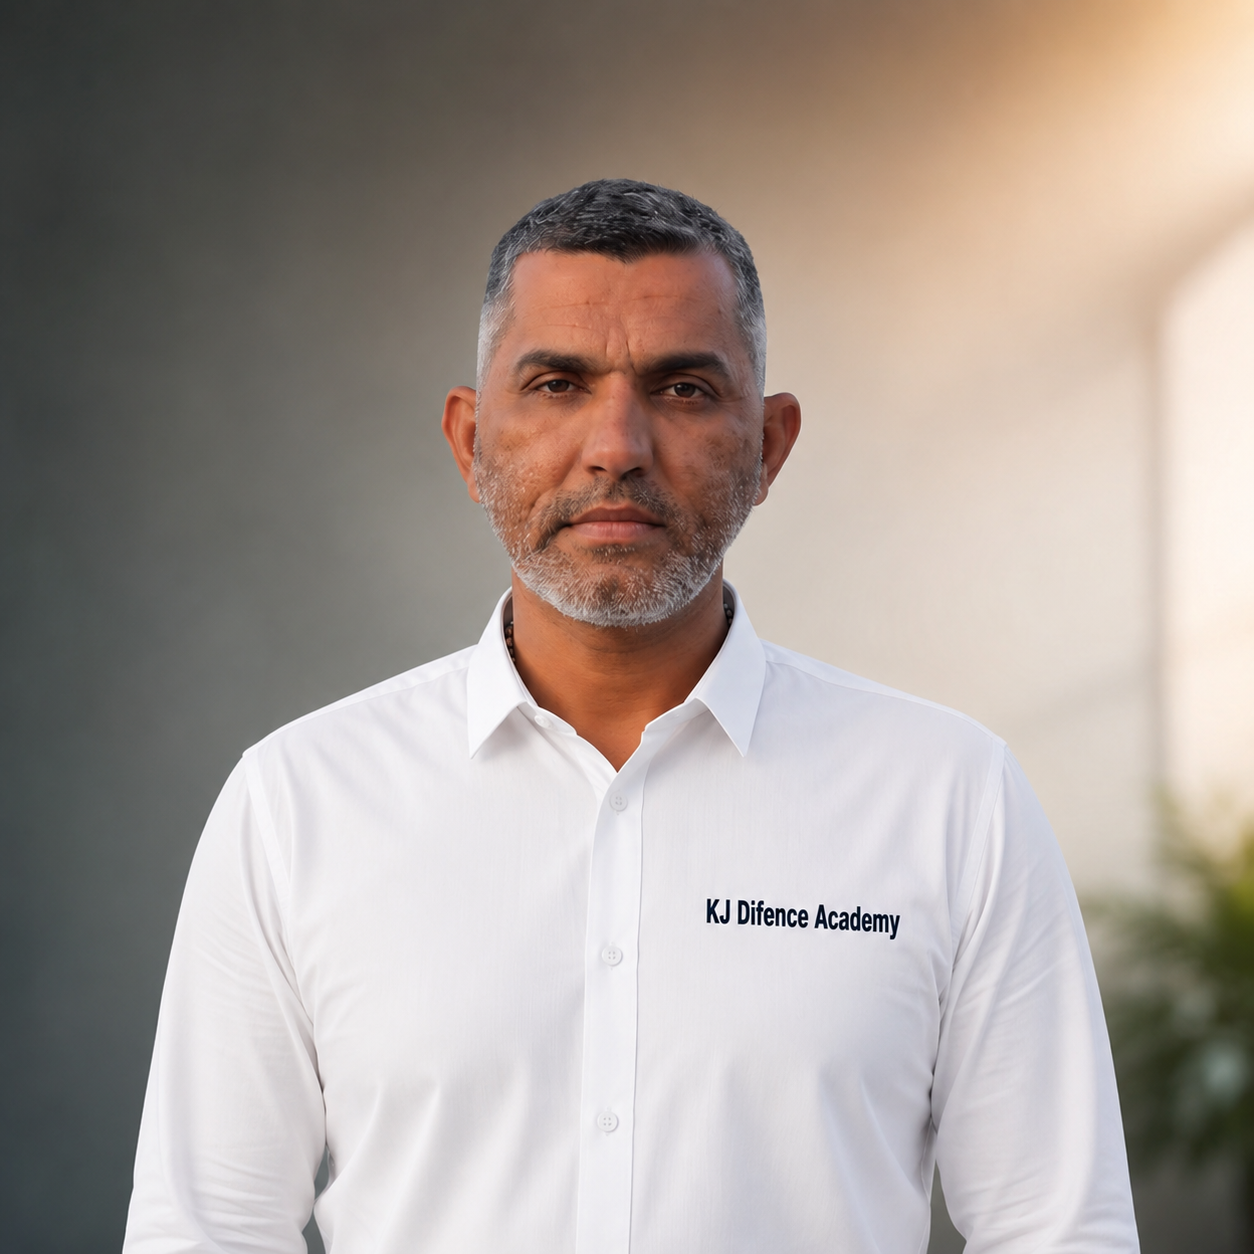
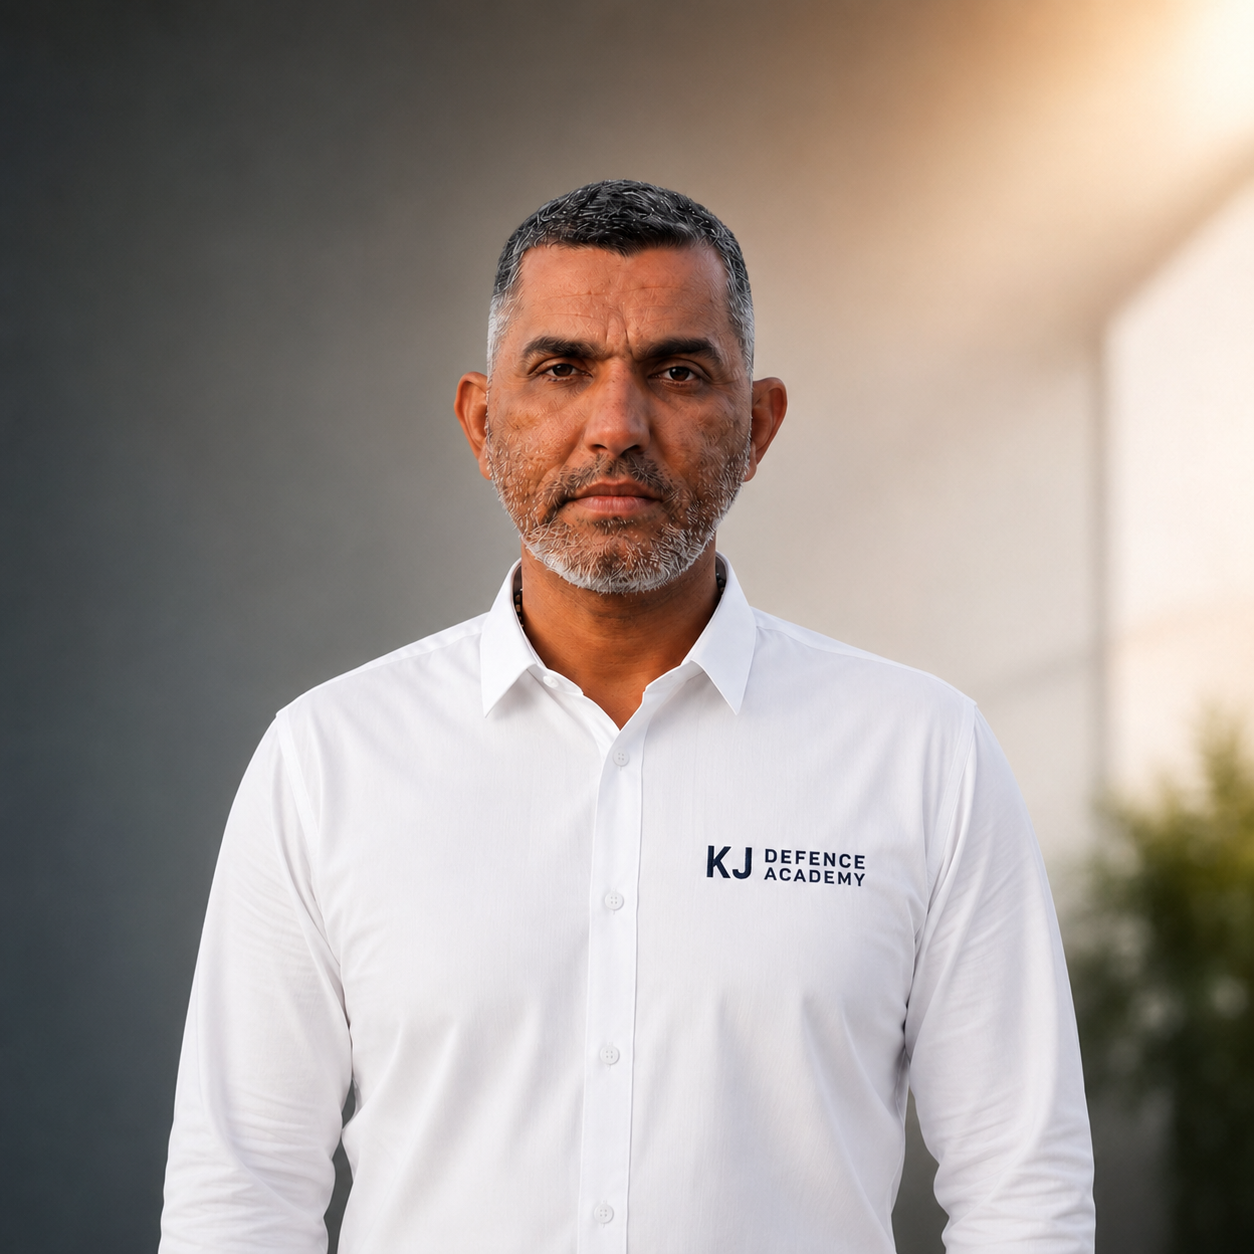
Complete

diff --git a/src/components/Navbar.tsx b/src/components/Navbar.tsx
@@ -21,11 +21,11 @@ export default function Navbar({ currentLang, setCurrentLang }: NavbarProps) {
 
   const navLinks = [
     { nameEn: 'Home', nameHn: 'मुख्य पृष्ठ', href: '#home' },
-    { nameEn: 'About Academy', nameHn: 'अकादमी के बारे में', href: '#about' },
-    { nameEn: 'Courses & Training', nameHn: 'कोर्सेज व ट्रेनिंग', href: '#services' },
-    { nameEn: 'Eligibility Checker', nameHn: 'योग्यता जांचें', href: '#eligibility' },
-    { nameEn: 'Toppers & Gallery', nameHn: 'चयनित व गैलरी', href: '#gallery' },
-    { nameEn: 'Contact Us', nameHn: 'संपर्क करें', href: '#contact' },
+    { nameEn: 'About', nameHn: 'अकादमी के बारे में', href: '#about' },
+    { nameEn: 'Training', nameHn: 'ट्रेनिंग', href: '#services' },
+    { nameEn: 'Eligibility', nameHn: 'योग्यता जांचें', href: '#eligibility' },
+    { nameEn: 'Gallery', nameHn: 'गैलरी', href: '#gallery' },
+    { nameEn: 'Contact', nameHn: 'संपर्क', href: '#contact' },
   ];
 
   const handleScrollToSegment = (e: React.MouseEvent<HTMLAnchorElement>, href: string) => {
@@ -49,13 +49,16 @@ export default function Navbar({ currentLang, setCurrentLang }: NavbarProps) {
       <nav className={`fixed left-0 right-0 z-[100] transition-all duration-300 ${scrolled ? 'top-0 bg-military-900/95 backdrop-blur-md shadow-lg border-b border-bronze-500/20 py-2' : 'top-8 md:top-8 bg-transparent py-4'}`}>
         <div className="max-w-7xl mx-auto px-4 sm:px-6 lg:px-8">
           <div className="flex justify-between items-center">
+            {/* Logo Image */}
             <a href="#home" onClick={(e) => handleScrollToSegment(e, '#home')} className="flex items-center gap-3 group">
-              <div className="relative flex items-center justify-center w-11 h-11 bg-gradient-to-b from-saffron-500 to-military-500 text-military-900 rounded-full border border-bronze-400">
-                <Shield className="w-6 h-6 text-military-900" />
-              </div>
+              <img 
+                src="assets/logo.png" 
+                alt="Logo" 
+                className="w-12 h-12 object-contain" 
+              />
               <div className="flex flex-col">
-                <span className="font-display font-extrabold text-lg text-white uppercase">{currentLang === 'en' ? 'KJ DEFENCE' : 'कुचामन जीत'}</span>
-                <span className="text-[10px] font-bold text-bronze-300 uppercase">{currentLang === 'en' ? 'ACADEMY MALPURA' : 'डिफेंस एकेडमी'}</span>
+                <span className="font-display font-extrabold text-lg text-white uppercase">{currentLang === 'en' ? 'KJ' : 'कुचामन जीत'}</span>
+                <span className="text-[10px] font-bold text-bronze-300 uppercase">{currentLang === 'en' ? 'Difence ACADEMY' : 'डिफेंस एकेडमी'}</span>
               </div>
             </a>
 

diff --git a/index.html b/index.html
@@ -3,6 +3,7 @@
   <head>
     <meta charset="UTF-8" />
     <meta name="viewport" content="width=device-width, initial-scale=1.0" />
+    <link rel="icon" type="image/png" href="/assets/logo.png" />
     <title>कुचामन जीत</title>
   </head>
   <body>